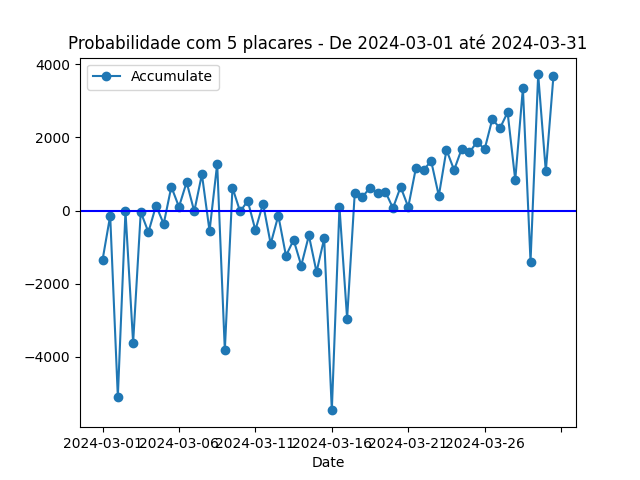
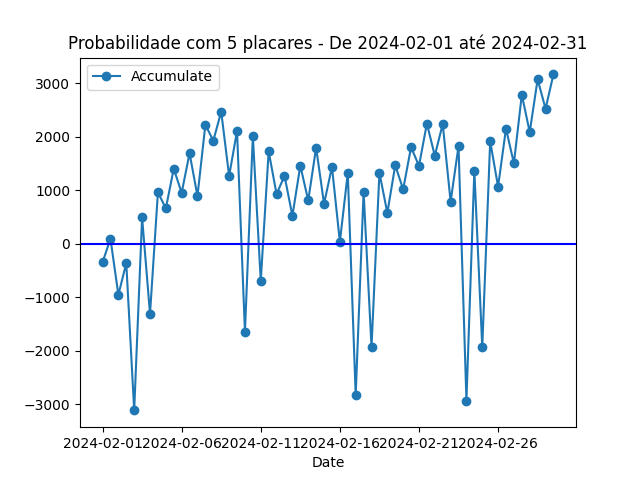
Update graphs

diff --git a/cscore.py b/cscore.py
@@ -293,8 +293,8 @@ df_summary['Percent'] = df_summary['Loss'] / df_summary['Win']
 df_summary['Min_Profit'] = df_summary['Percent'] * 1.065
 print(df_summary)
 
-data_inicial = '2024-03-01'
-data_final = '2024-03-31'
+data_inicial = '2024-02-01'
+data_final = '2024-02-31'
 for index, summary in df_summary.iterrows():
     df_analytics = df.copy()
     df_analytics = df_analytics[(df_analytics['Date'] >= data_inicial) & (df_analytics['Date'] <= data_final)]
@@ -414,7 +414,7 @@ for index in available_results:
             df_analytics_league['Accumulate'] = df_analytics_league['Profit'].cumsum()
 
             last_value = df_analytics_league['Accumulate'].iloc[-1]
-            if last_value > -50:
+            if last_value > 0:
                 legend.append(f'{league} - {country}')
                 plt.plot(df_analytics_league['Date'], df_analytics_league['Accumulate'], label=league)
 
